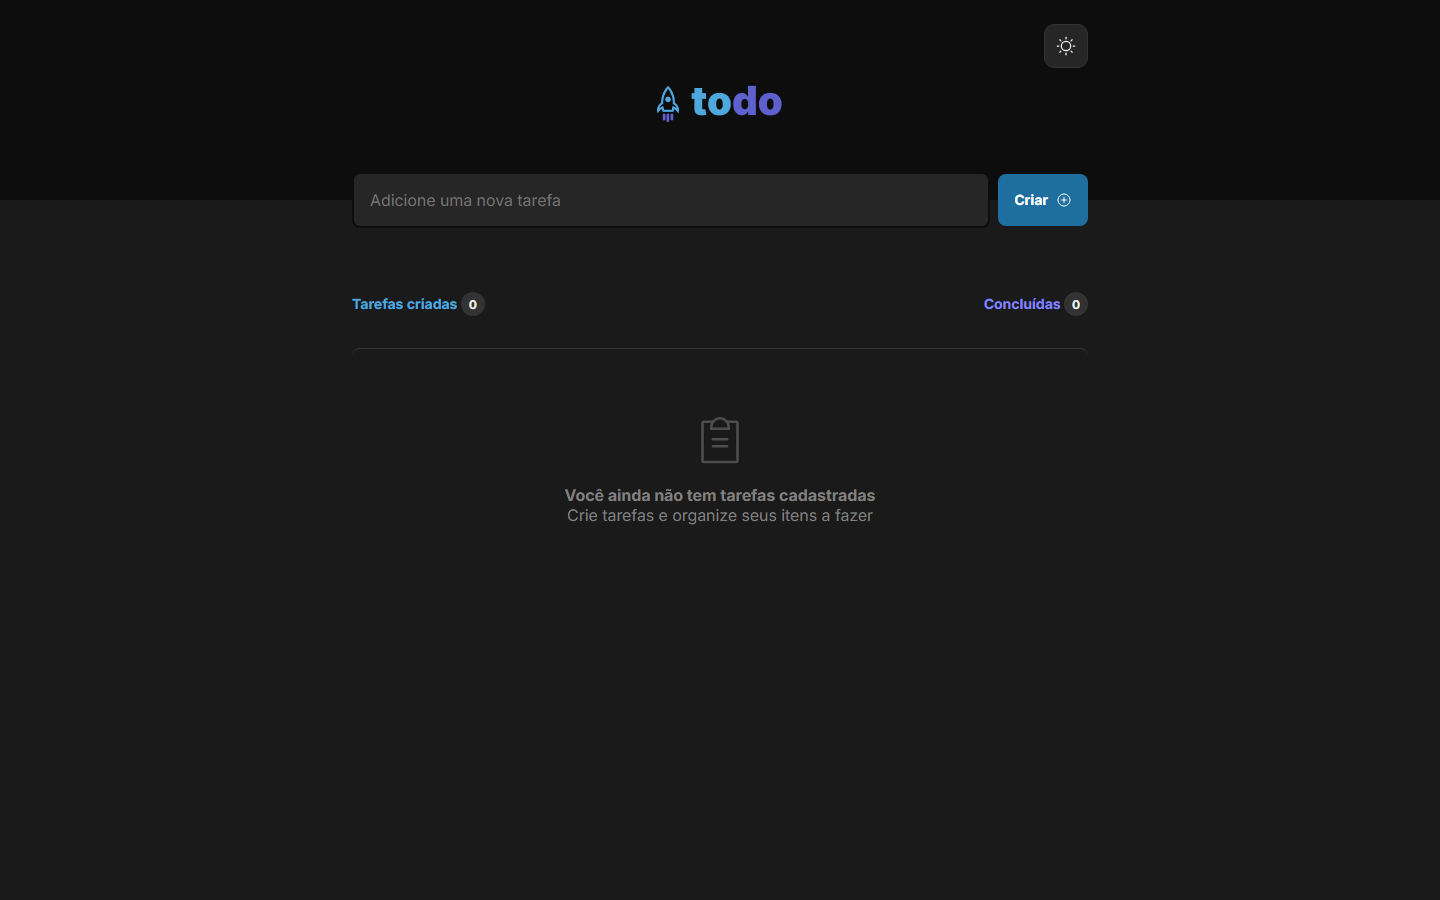
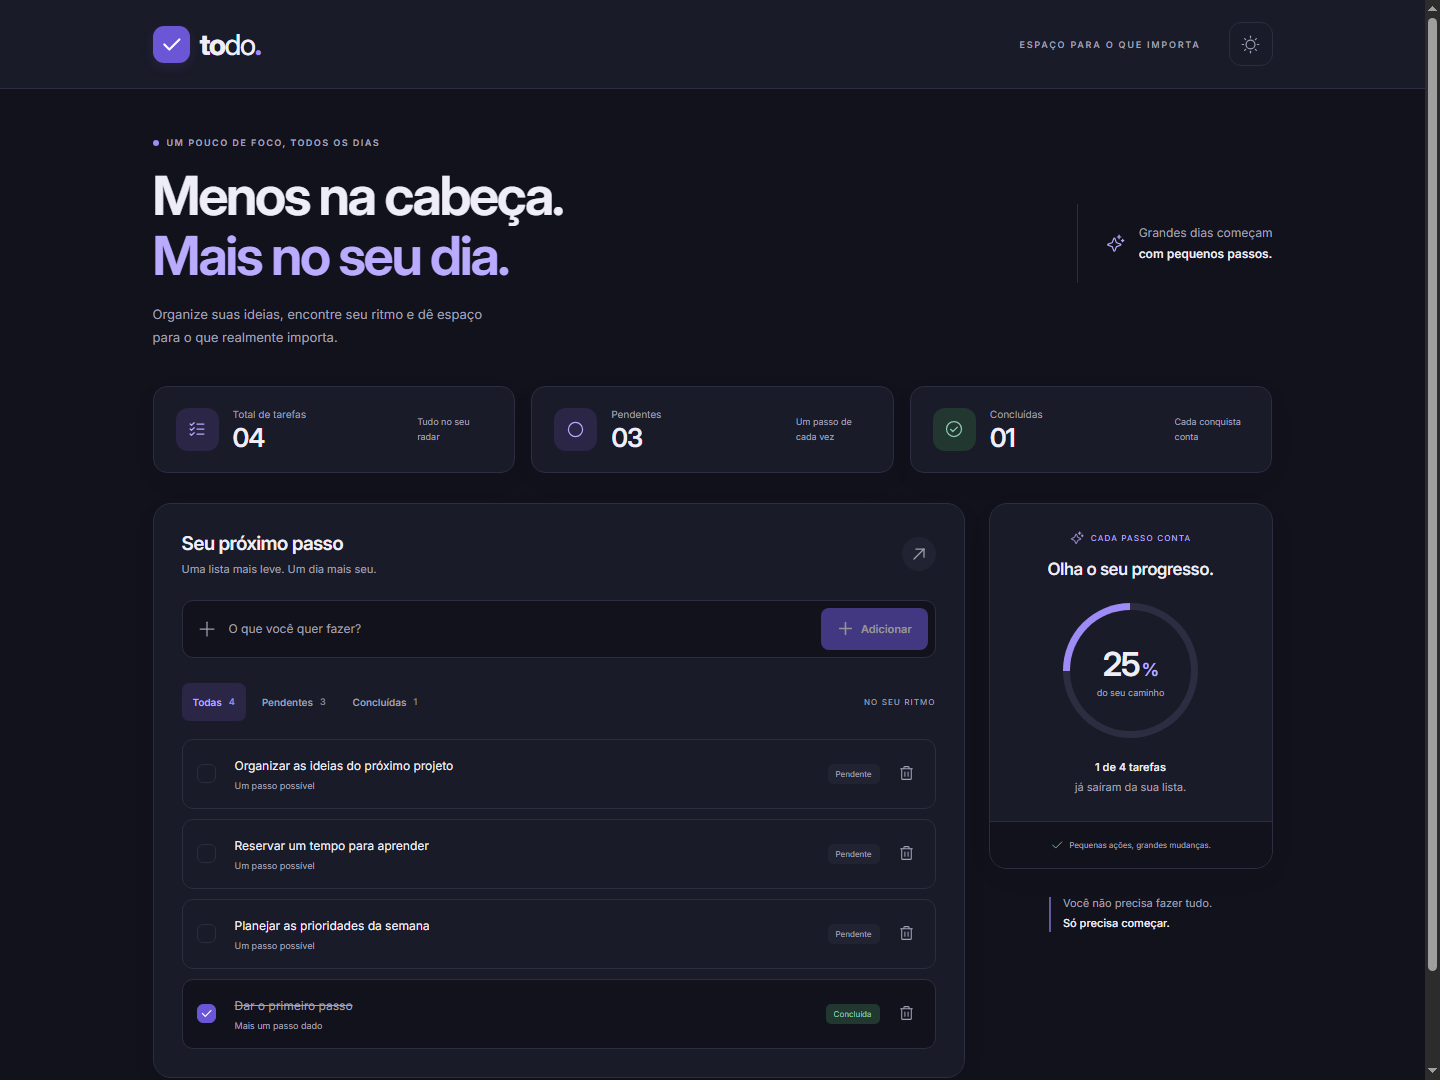
Refresh TodoApp light and dark covers for the new layout

diff --git a/src/data/projects.ts b/src/data/projects.ts
@@ -35,9 +35,9 @@ export const sideProjects = [
     lightCover: otherProjectImage2Light,
     title: "TodoApp",
     engineeringFocus:
-      "Keeps task creation, editing, and deletion within a focused React interface, demonstrating essential frontend interaction patterns.",
+      "Combines task creation, completion, deletion, and status filters with browser storage, progress tracking, and accessible light and dark themes.",
     description:
-      "A focused task manager built with React, TypeScript, and Vite. Create, edit, and delete tasks through a straightforward interface that keeps everyday planning simple and puts essential actions within easy reach.",
+      "A focused task manager built with React, TypeScript, and Vite. Create and complete tasks, filter your list, and follow your progress through a responsive interface with light and dark themes. Tasks stay saved in your browser.",
     technologies: ["React", "TypeScript", "Vite"],
     lastUpdated: "2026-10-31",
     repoLink: "https://github.com/victormoni/TodoApp",
